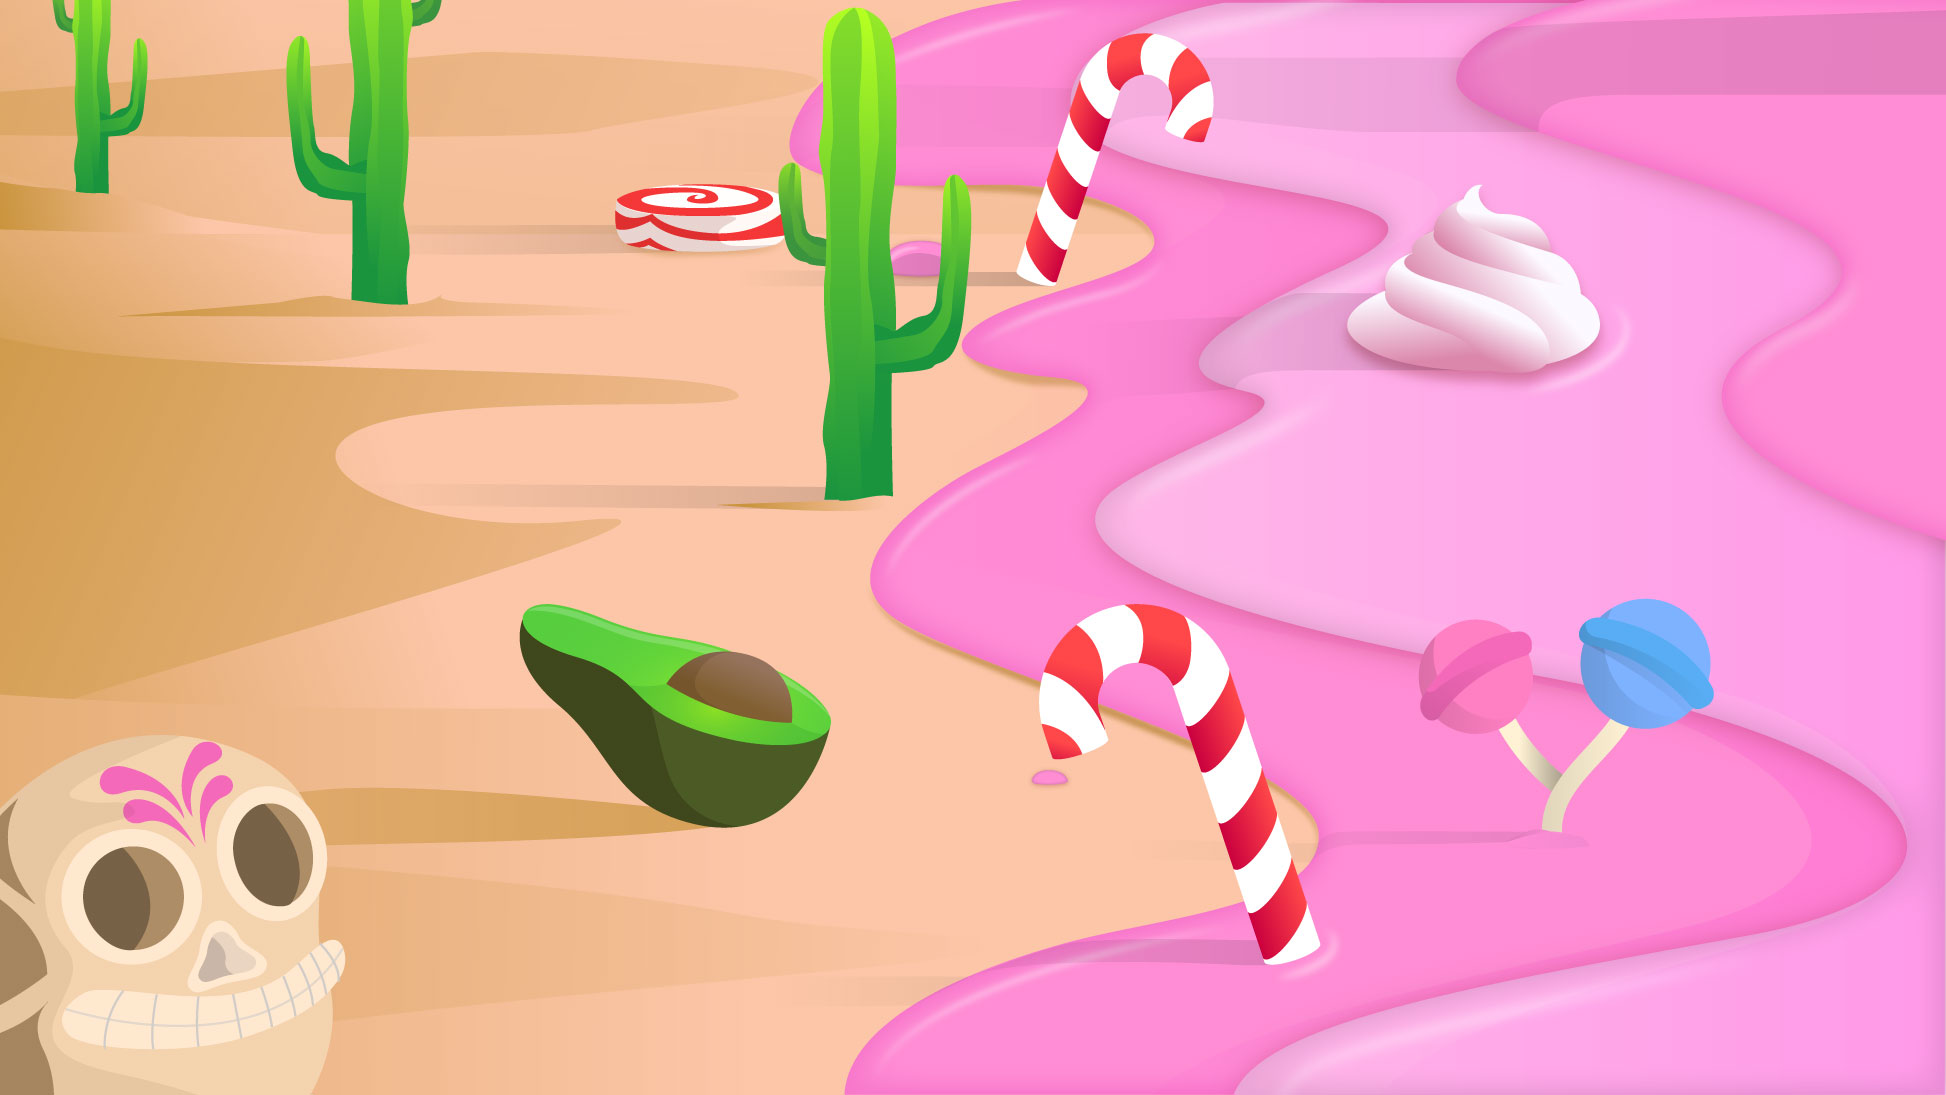
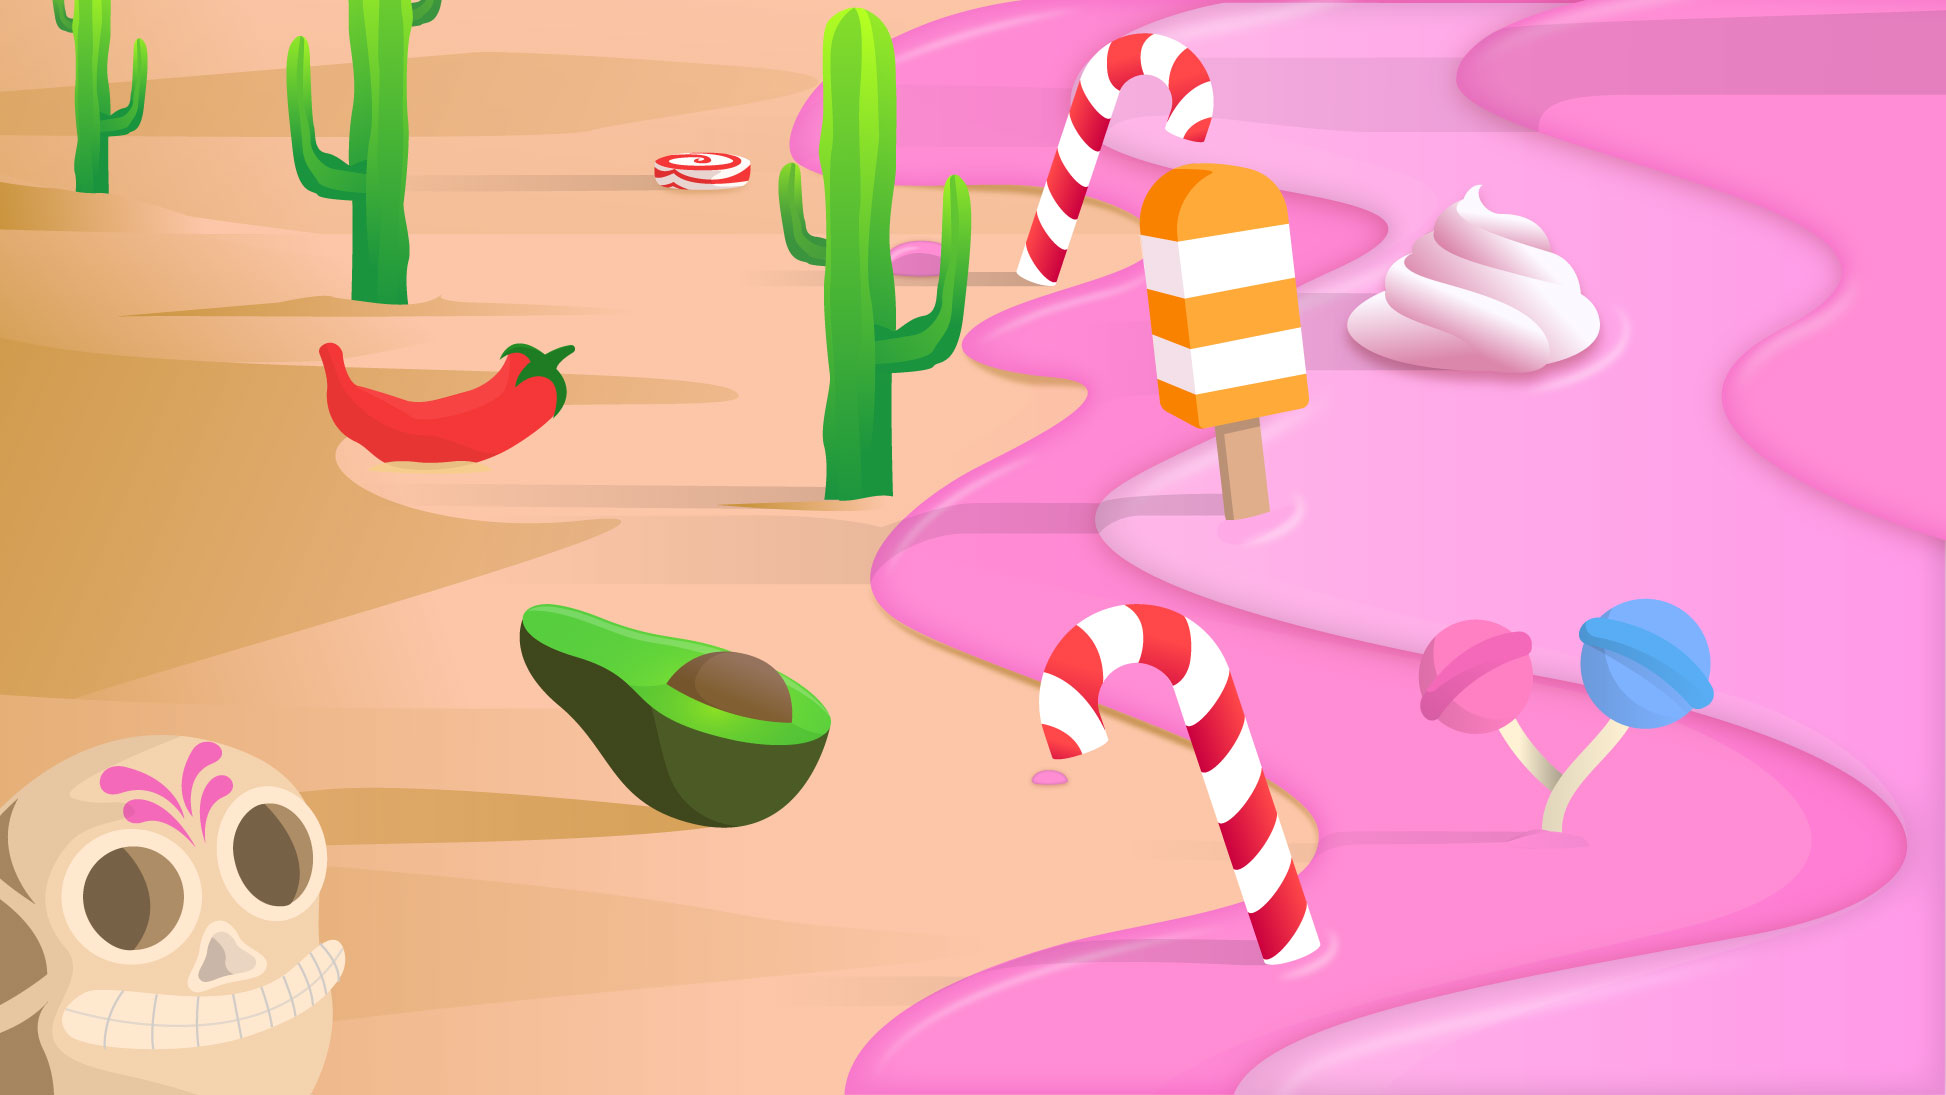
arduino big fixes and updates, visual update background

Changed region(s): [[0.5242, 0.1242, 0.6783, 0.4968], [0.1542, 0.3105, 0.3083, 0.4347], [0.3083, 0.1242, 0.4008, 0.2484]]

diff --git a/classes/states/GameState.js b/classes/states/GameState.js
@@ -14,8 +14,6 @@ class GameState extends Phaser.State {
     this.setupArduino();
     this.setupSpecialGroups();
     this.setupSpawnSpecials();
-    //this.setupExplosions();
-    //this.setupText();
     this.cursors = this.input.keyboard.createCursorKeys();
 
   }
@@ -23,7 +21,7 @@ class GameState extends Phaser.State {
   update() {
 
     this.checkCollisions();
-    if (this.gameEnded === false) {
+    if (this.gameEnded === false && this.gameStarted === true) {
       this.processPlayerInput();
     }
 
@@ -89,6 +87,9 @@ class GameState extends Phaser.State {
 
     this.updateHealth();
     this.tacoHitSound.play();
+    if (fire.body !== null) {
+      fire.body.moves = false;
+    }
 
     this.p2Immume = true;
     this.immumeEffectP2();
@@ -159,7 +160,8 @@ class GameState extends Phaser.State {
   setupGlobals(){
     this.pOneSpecialAvailable = true;
     this.pTwoSpecialAvailable = true;
-    this.gameEnded = true;
+    this.gameEnded = false;
+    this.gameStarted = true;
     this.playerOneFreeze = false;
     this.yVelocity = 0;
 
@@ -190,12 +192,12 @@ class GameState extends Phaser.State {
       this.scoreText.text = `1`;
     }
     if (this.counter === 3) {
-      this.scoreText.text = `GOOO!`;
+      this.scoreText.text = `Gooo!`;
     }
     if (this.counter === 4) {
       this.scoreText.destroy();
       this.countdownTimer.stop();
-      this.gameEnded = false;
+      this.gameStarted = true;
     }
 
   }
@@ -213,29 +215,55 @@ class GameState extends Phaser.State {
   setupArduino() {
 
     this.game.arduinoPlugin.triggerTaco.add(() => {
-      console.log('TRIGGER TACO');
-      this.fireTaco();
-      this.player.animations.play(`shoot`);
+      if (this.gameEnded === false && this.gameStarted === true) {
+        console.log('TRIGGER TACO');
+        this.fireTaco();
+        this.player.animations.play(`shoot`);
+      }
+      if (this.gameEnded === true && this.gameStarted === false) {
+        this.startClick();
+      }
     });
 
     this.game.arduinoPlugin.triggerFlamethrower.add(() => {
       console.log('TRIGGER FLAMETHROWER');
-      if (this.pOneSpecialAvailable === true) {
+      if (this.pOneSpecialAvailable === true && this.gameEnded === false && this.gameStarted === true) {
         this.loadFire();
+      }
+      if (this.gameEnded === true && this.gameStarted === false) {
+        this.bgSound.stop();
+        this.bgSound.destroy();
+        this.setupGlobals();
+        this.setupSpecialGroups();
+        this.state.start(`Intro`);
+        this.scoreText.destroy();
       }
     });
 
     this.game.arduinoPlugin.triggerIceCream.add(() => {
-      console.log('TRIGGER ICECREAM');
-      this.fireIcecream();
-      this.playerTwo.animations.play(`shoot`);
+      if (this.gameEnded === false && this.gameStarted === true) {
+        console.log('TRIGGER ICECREAM');
+        this.fireIcecream();
+        this.playerTwo.animations.play(`shoot`);
+      }
+      if (this.gameEnded === true && this.gameStarted === false) {
+        this.startClick();
+      }
     });
 
     this.game.arduinoPlugin.triggerIcyWind.add(() => {
       console.log('TRIGGER FREEZE');
       //console.log(this.pTwoSpecialAvailable);
-      if (this.pTwoSpecialAvailable === true) {
+      if (this.pTwoSpecialAvailable === true && this.gameEnded === false && this.gameStarted === true) {
         this.freezePlayerOne();
+      }
+      if (this.gameEnded === true && this.gameStarted === false) {
+        this.bgSound.stop();
+        this.bgSound.destroy();
+        this.setupGlobals();
+        this.setupSpecialGroups();
+        this.scoreText.destroy();
+        this.state.start(`Intro`);
       }
     });
 
@@ -356,7 +384,7 @@ class GameState extends Phaser.State {
     this.player.animations.add(`walk`, Phaser.Animation.generateFrameNames(`walk`, 1, 7, `.png`, 1), 25, true, false);
     this.frozenAnim = this.player.animations.add(`frozen`, Phaser.Animation.generateFrameNames(`frozen`, 1, 2, `.png`, 1), 10, true, false);
     this.shootAnim = this.player.animations.add(`shoot`, Phaser.Animation.generateFrameNames(`shoot`, 1, 7, `.png`, 1), 25, false, false);
-    this.fireAnim = this.player.animations.add(`fire`, Phaser.Animation.generateFrameNames(`fire`, 1, 16, `.png`, 1), 25, false, false);
+    this.fireAnim = this.player.animations.add(`fire`, Phaser.Animation.generateFrameNames(`fire`, 1, 25, `.png`, 1), 25, false, false);
 
     this.player.animations.play(`stand`);
 
@@ -511,7 +539,7 @@ class GameState extends Phaser.State {
     this.game.arduinoPlugin.blueLedBool = false;
     this.player.animations.play(`frozen`);
     this.icyWindSound.play();
-    this.time.events.add(Phaser.Timer.SECOND * 1.5, this.fadeFreeze, this);
+    this.time.events.add(Phaser.Timer.SECOND * 2, this.fadeFreeze, this);
   }
 
   fadeFreeze() {
@@ -524,6 +552,8 @@ class GameState extends Phaser.State {
     this.playerOneFreeze = true;
     this.time.events.add(Phaser.Timer.SECOND * 0.4, this.breathFire, this);
     this.player.animations.play(`fire`);
+    this.pOneSpecialAvailable = false;
+    this.game.arduinoPlugin.redLedBool = false;
   }
 
   breathFire() {
@@ -535,15 +565,14 @@ class GameState extends Phaser.State {
 
     this.time.events.add(Phaser.Timer.SECOND * 1, this.fadeFire, this);
 
-    this.playerOneFreeze = false;
-    this.pOneSpecialAvailable = false;
-    this.game.arduinoPlugin.redLedBool = false;
+
     //console.log(this.pOneSpecialAvailable);
     this.flamethrowerSound.play();
 
   }
 
   fadeFire() {
+    this.playerOneFreeze = false;
     this.game.arduinoPlugin.hotAirBool = false;
     this.firePool.destroy();
     this.player.animations.play('stand');
@@ -682,41 +711,49 @@ class GameState extends Phaser.State {
     this.game.arduinoPlugin.triggerWalkUpTwo.remove(() => {});
     this.game.arduinoPlugin.triggerWalkDownTwo.remove(() => {});
     this.gameEnded = true;
+    this.gameStarted = false;
 
     this.flamethrowerPickupPool.destroy();
     this.icywindPickupPool.destroy();
+    this.tacoPool.destroy();
+    this.icecreamPool.destroy();
+    if (this.firePool != null) {
+      this.firePool.destroy();
+    }
 
     this.player.body.velocity.y = 0;
     this.playerTwo.body.velocity.y = 0;
+
+    this.start = this.add.button(this.game.width/2, 800, 'replay', this.startClick, this);
+    this.start.anchor.setTo(0.5,0.5);
+
+    this.endingText = this.add.text(this.world.width/2, this.world.height/2 + 100, `3`,{font: `100px Cubano`, fill: `#FFFFFF`, align: `center`});
+    this.endingText.anchor.setTo(0.5, 0.5);
+    this.endingText.text = ``;
 
     this.setupPlay();
   }
 
   setupPlay() {
-    this.start = this.add.button(this.game.width/2, 800, 'replay', this.startClick, this);
-    this.start.anchor.setTo(0.5,0.5);
     if (this.healthPlayer === 0) {
         this.playerTwo.y = 300;
         this.playerTwo.x = this.world.width/2;
-        this.endingText = this.add.text(this.world.width/2, this.world.height/2 + 100, `3`,{font: `100px Cubano`, fill: `#FFFFFF`, align: `center`});
-        this.endingText.anchor.setTo(0.5, 0.5);
-        this.endingText.text = `Tutti Frutti won!`;
+        this.endingText.setText(`Tutti Frutti won!`);
         this.playerTwo.scale.setTo(1.2, 1.2);
         this.playerTwo.body.velocity.y = 0;
     }
     if (this.healthPlayerTwo === 0) {
       this.player.y = 300;
       this.player.x = this.world.width/2;
-      this.endingText = this.add.text(this.world.width/2, this.world.height/2 + 100, `3`,{font: `100px Cubano`, fill: `#FFFFFF`, align: `center`});
-      this.endingText.anchor.setTo(0.5, 0.5);
       this.player.scale.setTo(1.2, 1.2);
-      this.endingText.text = `Tico Taco won!`;
+      this.endingText.setText(`Tico Taco won!`);
       this.playerTwo.body.velocity.y = 0;
     }
   }
 
   startClick() {
     this.bgSound.stop();
+    this.bgSound.destroy();
     this.setupGlobals();
     this.setupSpecialGroups();
     this.state.start(`GameState`);

diff --git a/classes/states/Intro.js b/classes/states/Intro.js
@@ -4,6 +4,7 @@ class Intro extends Phaser.State {
   create() {
     this.setupBackground();
     this.setupPlay();
+    this.setupArduino();
   }
   setupBackground(){
     //this.sea = this.add.tileSprite(0, 0, this.world.width, this.world.height, `bg-menu`);
@@ -12,6 +13,24 @@ class Intro extends Phaser.State {
     this.bg.scale.y = this.bg.scale.x;
     //this.game.scale.fullScreenScaleMode = Phaser.ScaleManager.EXACT_FIT;
     //this.game.scale.startFullScreen(false);
+  }
+  setupArduino() {
+
+    this.game.arduinoPlugin.triggerTaco.add(() => {
+      this.state.start(`GameState`);
+    });
+
+    this.game.arduinoPlugin.triggerFlamethrower.add(() => {
+      this.state.start(`GameState`);
+    });
+
+    this.game.arduinoPlugin.triggerIceCream.add(() => {
+      this.state.start(`GameState`);
+    });
+
+    this.game.arduinoPlugin.triggerIcyWind.add(() => {
+      this.state.start(`GameState`);
+    });
   }
   setupPlay() {
     this.start = this.add.button(this.game.width/2, this.bg.height/100 *55, 'play', this.startClick, this);

diff --git a/classes/plugins/ArduinoPlugin.js b/classes/plugins/ArduinoPlugin.js
@@ -212,34 +212,6 @@ class ArduinoPlugin extends Phaser.Plugin {
     };
 
 
-
-
-    //
-    // if (this.joystick !== undefined) {
-    //
-    //   if (this.joystick.y < -0.7) {
-    //     console.log('omhoog');
-    //     this.triggerWalkUp.dispatch();
-    //   }
-    //   if (this.joystick.y > 0.7) {
-    //     console.log('beneden');
-    //     this.triggerWalkDown.dispatch();
-    //   }
-    //
-    //   if (this.joystickTwo.y < -0.7) {
-    //     console.log('omhoog2');
-    //     this.triggerWalkUpTwo.dispatch();
-    //   }
-    //   if (this.joystickTwo.y > 0.7) {
-    //     console.log('beneden2');
-    //     this.triggerWalkDownTwo.dispatch();
-    //   }
-    //
-    // } else {
-    //   console.log('BOARD NOT LOADED');
-    // }
-
-
   }
 }
 
